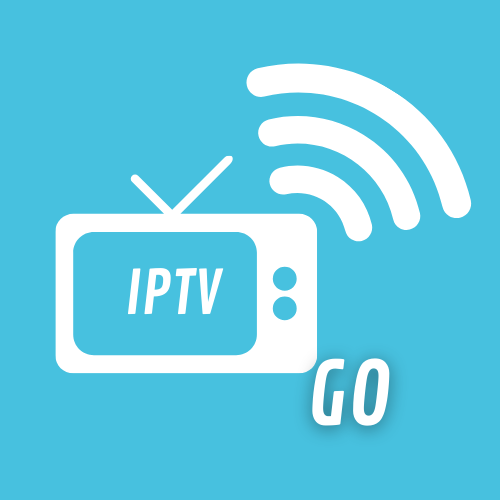
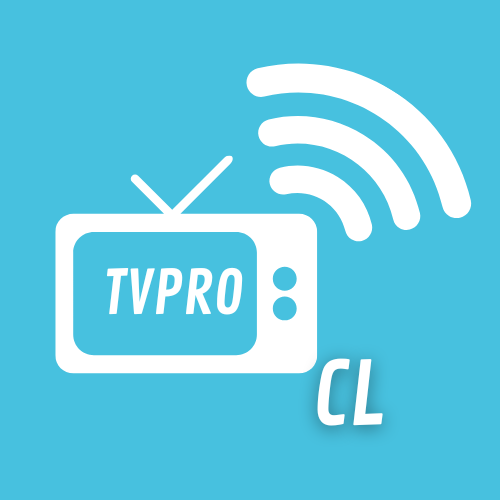
new section and new things

Changed region(s): [[0.21, 0.51, 0.51, 0.63], [0.6, 0.72, 0.81, 0.87]]

diff --git a/index.html b/index.html
@@ -4,7 +4,7 @@
     <meta charset="UTF-8">
     <meta http-equiv="X-UA-Compatible" content="IE=edge">
     <meta name="viewport" content="width=device-width, initial-scale=1.0">
-    <title>IPTV Go</title>
+    <title>TVPro Cl</title>
     <link rel="stylesheet" href="src/css/main.css">
     <link rel="stylesheet" href="https://unpkg.com/aos@next/dist/aos.css" />
     <link rel="icon" type="image/png" sizes="32x32" href="assets/favicon-32x32.png">
@@ -12,14 +12,14 @@
     <meta name="description" content="El mejor servicio de TV para series, peliculas, VOD para tu Smart TV, TVBox y para ver desde tus dispositivos móviles y computadoras. Futbol nacional y todas las ligas del mundo. Televisión por internet.">
     <meta property="og:type" content="website">
     <meta property="og:url" content="https://iptvgo.netlify.app/">
-    <meta property="og:title" content="IPTV Go">
+    <meta property="og:title" content="TVPro Cl">
     <meta property="og:description" content="El mejor servicio de TV para series, peliculas, VOD para tu Smart TV, TVBox y para ver desde tus dispositivos móviles y computadoras. Futbol nacional y todas las ligas del mundo. Televisión por internet.">
-    <meta property="twitter:url" content="https://iptvgo.netlify.app/">
-    <meta property="og:image" content="https://iptvgo.netlify.app/src/IPTV.png/">
-    <meta property="twitter:title" content="IPTV Go">
+    <meta property="twitter:url" content="https://tvprocl.netlify.app/">
+    <meta property="og:image" content="https://tvprocl.netlify.app/src/IPTV.png/">
+    <meta property="twitter:title" content="TVPro Cl">
     <meta property="twitter:description" content="El mejor servicio de TV para series, peliculas, VOD para tu Smart TV, TVBox y para ver desde tus dispositivos móviles y computadoras. Futbol nacional y todas las ligas del mundo. Televisión por internet.">
     <meta name="twitter:card" content="summary">
-    <meta property="twitter:image" content="https://iptvgo.netlify.app/src/IPTV.png/">
+    <meta property="twitter:image" content="https://tvprocl.netlify.app/src/IPTV.png/">
 
 </head>
 <body>
@@ -39,12 +39,11 @@
     <!-- Main -->
         <div class="bg-image"></div>
         <div class="bg-text">
-          <h1>IPTV <span class="text-resaltado">GO</span></h1>
+          <h1>TV<span class="text-resaltado">Pro</span>Cl</h1>
           <p>Canales de televisión a un solo click</p>
-          <a href="https://api.whatsapp.com/send?phone=56940547800&text=Hola%21%20Quisiera%20probar%20una%20demo" target="_blank"><button class="btn">Haz click acá para reclamar tu demo de 4 horas</button></a>
+          <a href="https://api.whatsapp.com/send?phone=56940547800&text=Hola%21%20Quisiera%20probar%20una%20demo" target="_blank"><button class="btn">Haz click acá y pide tu Demo por 4 horas</button></a>
           <br><br>
-          <span class="nuevo" id="button">¡NUEVO!</span>
-          <p class="none" id="text">Participa compartiendo nuestra página web en redes sociales y gana 3 meses de el mejor IPTV Gratis.</p>
+          <p class="none" id="text">Prueba TVProCl en tu Smart Tv, celular o cualquier dispositivo compatible.Lo mejor del cable pero sin decos, cables ni antenas.</p>
         </div>
     <!-- About -->
     <div class="whatis">
@@ -112,6 +111,46 @@
                 Multiples equipos compatibles <br>
                 Activación Automática <br>
                 Perfecto para disfrutar en familia de las mejores películas y series.</p>
+        </div>
+    </div>
+
+    <!-- Planes -->
+    <div class="planes">
+         <h1 class="planes-text">Planes</h1>
+        <div class="cards">
+           
+            <div>
+                <h2>1 Mes</h2>
+                <p>Precio $6000</p>
+                <h3 class="features">Características:</h3>
+                <ul>
+                    <li>Canales HD</li>
+                    <li>3 Dispositvos</li>
+
+                </ul>
+                    <a href="https://api.whatsapp.com/send?phone=56940547800&text=Me%20gustaría%20comprar%20el%20plan%20mensual." target="_blank"><button class="contratar">Contratar Ahora</button></a>
+            
+            </div>
+            <div>
+                <h2>3 Meses</h2>
+                <p>Precio $15000</p>
+                <h3 class="features">Características:</h3>
+                <ul>
+                    <li>Canales HD</li>
+                    <li>3 Dispositivos</li>
+                </ul>
+                <a href="https://api.whatsapp.com/send?phone=56940547800&text=Me%20gustaría%20comprar%20el%20plan%20de%20tres%20meses." target="_blank"><button class="contratar">Contratar Ahora</button></a>
+            </div>
+            <div>
+                <h2>6 Meses</h2>
+                <p>Precio $29999</p>
+                <h3 class="features">Características:</h3>
+                <ul>
+                    <li>Canales HD</li>
+                    <li>3 Dispositivos</li>
+                </ul>
+                <a href="https://api.whatsapp.com/send?phone=56940547800&text=Me%20gustaría%20comprar%20el%20plan%20de%20seis%20meses." target="_blank"><button class="contratar">Contratar Ahora</button></a>
+            </div>
         </div>
     </div>
 

diff --git a/src/css/main.css b/src/css/main.css
@@ -197,11 +197,11 @@ a {
   }
 
   .iptvimg {
-    height: 150px;
+    height: 95px;
   }
 
   .contacto {
-    margin-top: 360px;
+    margin-top: -18px;
   }
 }
 .footer {
@@ -229,6 +229,76 @@ a {
   height: 40px;
 }
 
+.planes {
+  width: 100%;
+  margin-top: 5rem;
+}
+
+.cards {
+  display: flex;
+  flex-direction: row;
+  justify-content: center;
+}
+
+.cards div {
+  margin: 30px;
+  background-color: #47C1DF;
+  color: white;
+  border-radius: 5px;
+  padding: 40px;
+}
+
+.cards div p {
+  font-size: 20px;
+  font-weight: 200;
+}
+
+.cards div h2 {
+  text-align: center;
+  text-decoration: underline;
+  margin-bottom: 10px;
+  font-size: 30px;
+}
+
+.features {
+  text-decoration: underline;
+  text-align: left;
+  margin-top: 10px;
+  margin-bottom: 10px;
+  font-size: 20px;
+}
+
+.planes-text {
+  text-align: center;
+  color: #fff;
+}
+
+.contratar {
+  align-items: center;
+  justify-content: center;
+  margin-top: 10px;
+  padding: 10px;
+  border-radius: 15px;
+  border: none;
+  background-color: #171717;
+  color: #fff;
+  cursor: pointer;
+  transition: 0.4s;
+}
+.contratar:hover {
+  text-decoration: underline;
+  transition: 0.4s;
+}
+
+@media only screen and (max-width: 768px) {
+  .cards {
+    flex-direction: column;
+  }
+
+  .planes {
+    margin-top: 25rem;
+  }
+}
 * {
   padding: 0;
   margin: 0;

diff --git a/src/scss/_plans.scss b/src/scss/_plans.scss
@@ -1,0 +1,75 @@
+.planes {
+	width: 100%;
+	margin-top: 5rem;
+
+}
+
+.cards {
+	display: flex;
+	flex-direction: row;
+	justify-content: center;
+}
+
+
+
+.cards div {
+	margin: 30px;
+	background-color: $primary;
+	color: white;
+	border-radius: 5px;
+	padding: 40px;
+}
+
+.cards div p {
+	font-size: 20px;
+	font-weight: 200;
+}
+.cards div h2 {
+	text-align: center;
+	text-decoration: underline;
+	margin-bottom: 10px;
+	font-size: 30px;
+}
+
+.features {
+	text-decoration: underline;
+	text-align: left;
+	margin-top: 10px;
+	margin-bottom: 10px;
+	font-size: 20px;
+}
+
+
+
+.planes-text {
+	text-align: center;
+	color: #fff;
+}
+
+.contratar {
+	align-items:center;
+	justify-content: center;
+	margin-top: 10px;
+	padding: 10px;
+	border-radius: 15px;
+	border: none;
+	background-color: #171717;
+	color: #fff;
+	cursor:pointer;
+	transition: .4s;
+	&:hover {
+		text-decoration: underline;
+		transition: .4s;
+	}
+}
+
+@media only screen and (max-width: 768px)  {
+	.cards {
+		flex-direction: column;
+	}
+
+	.planes {
+		margin-top: 25rem;
+	}
+	
+}

diff --git a/src/scss/_responsive.scss b/src/scss/_responsive.scss
@@ -26,11 +26,11 @@
   }
 
   .iptvimg {
-    height: 150px;
+    height: 95px;
   }
 
   .contacto {
-    margin-top: 360px;
+    margin-top: -18px;
     
 }
 }

diff --git a/src/scss/main.scss b/src/scss/main.scss
@@ -11,6 +11,7 @@ $dark: #171717;
 @import 'contacto';
 @import 'responsive';
 @import 'footer';
+@import 'plans';
 
 * {
     padding: 0;
